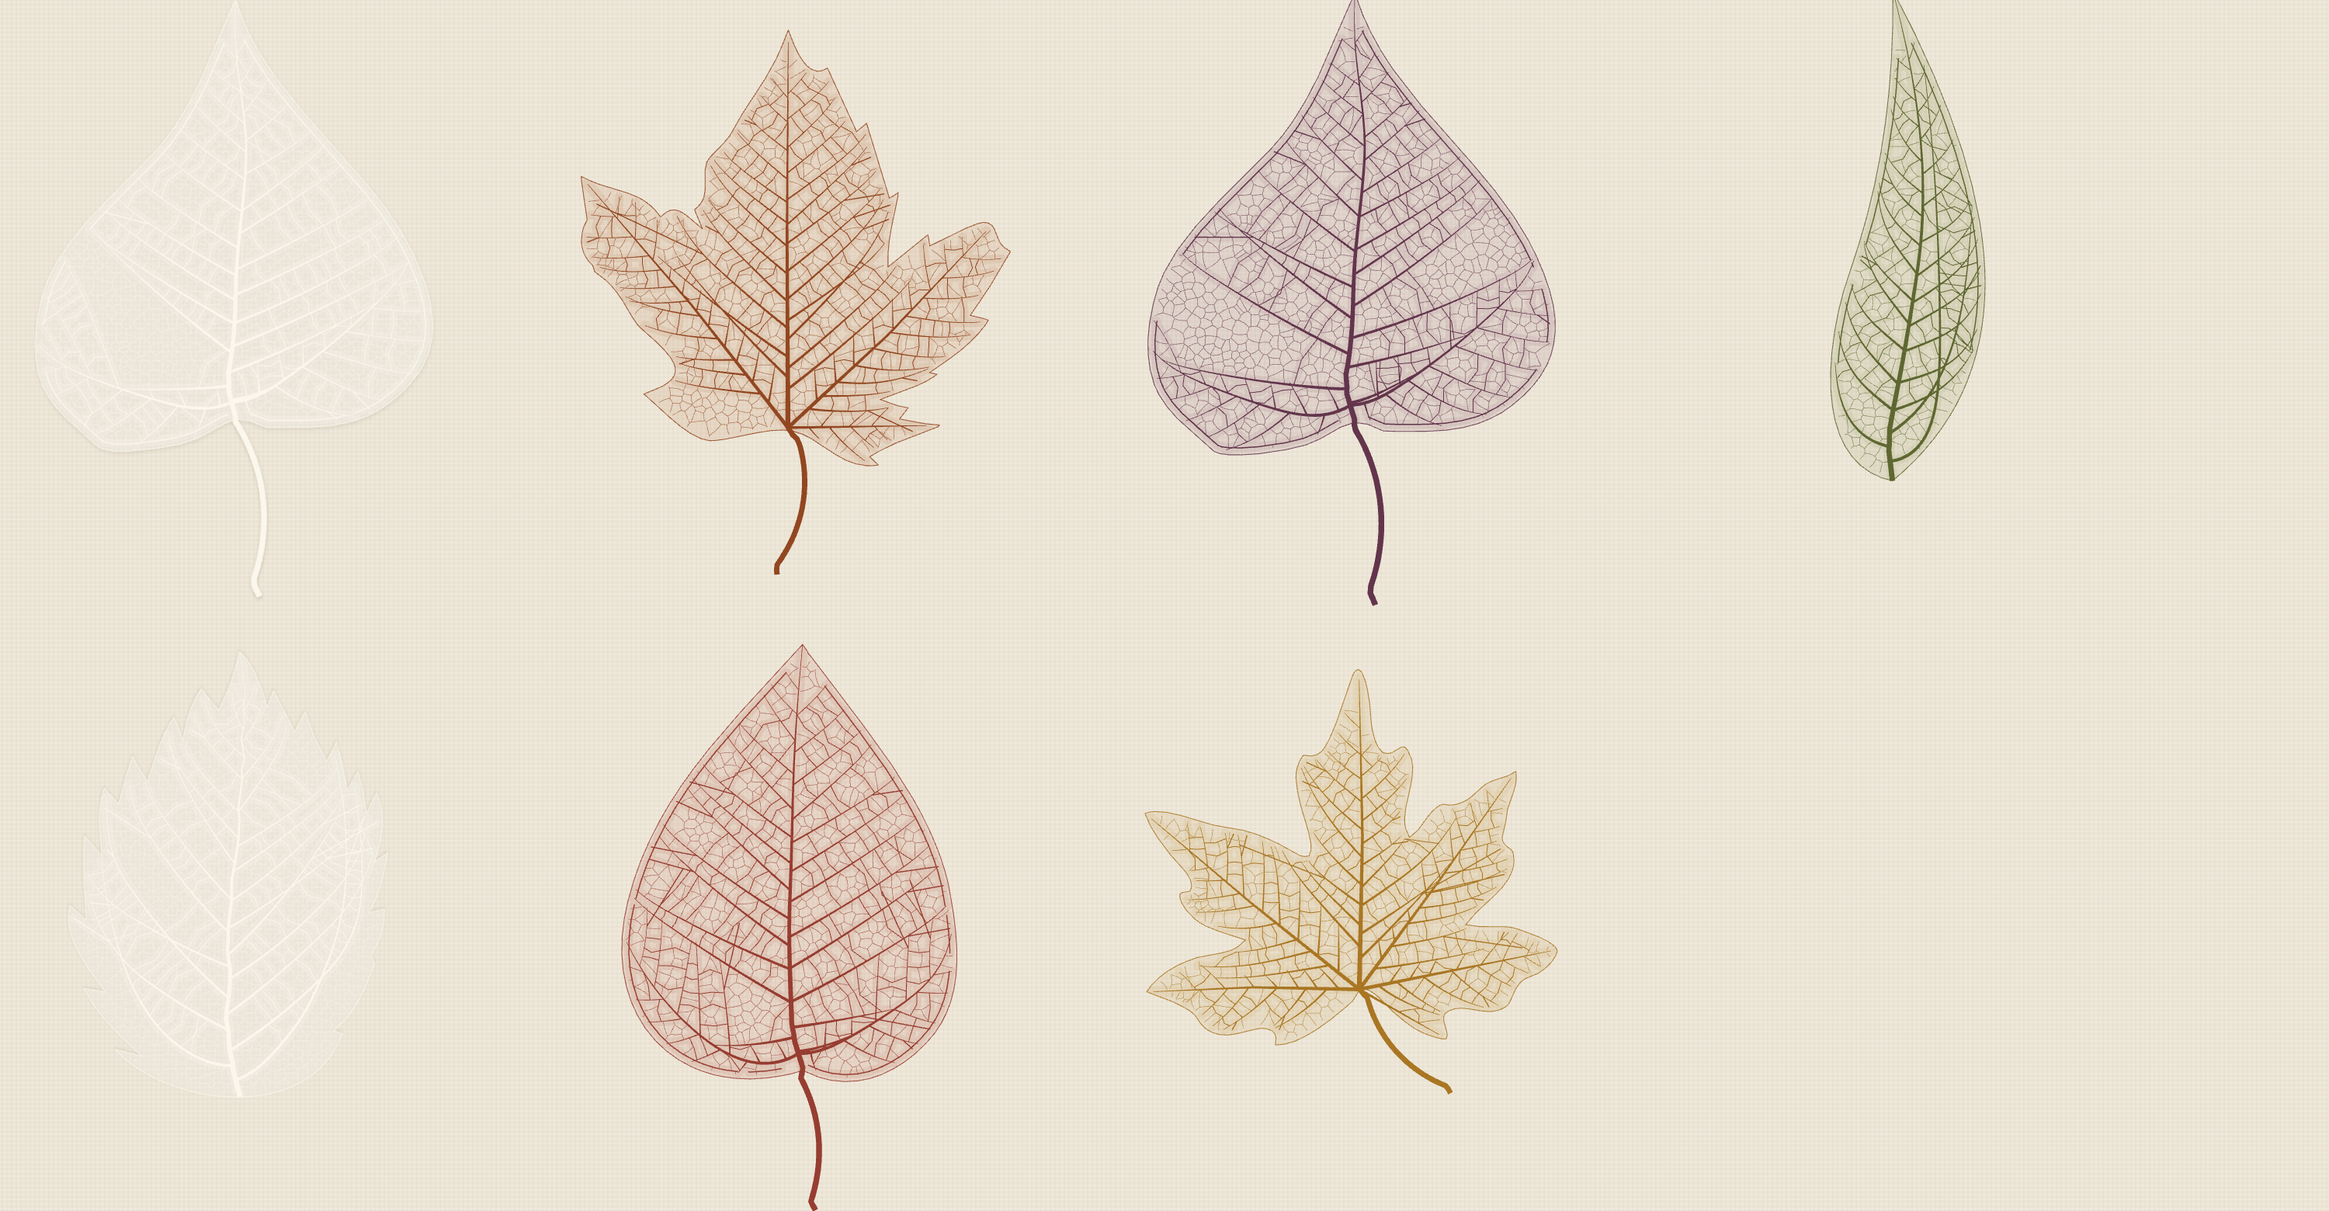
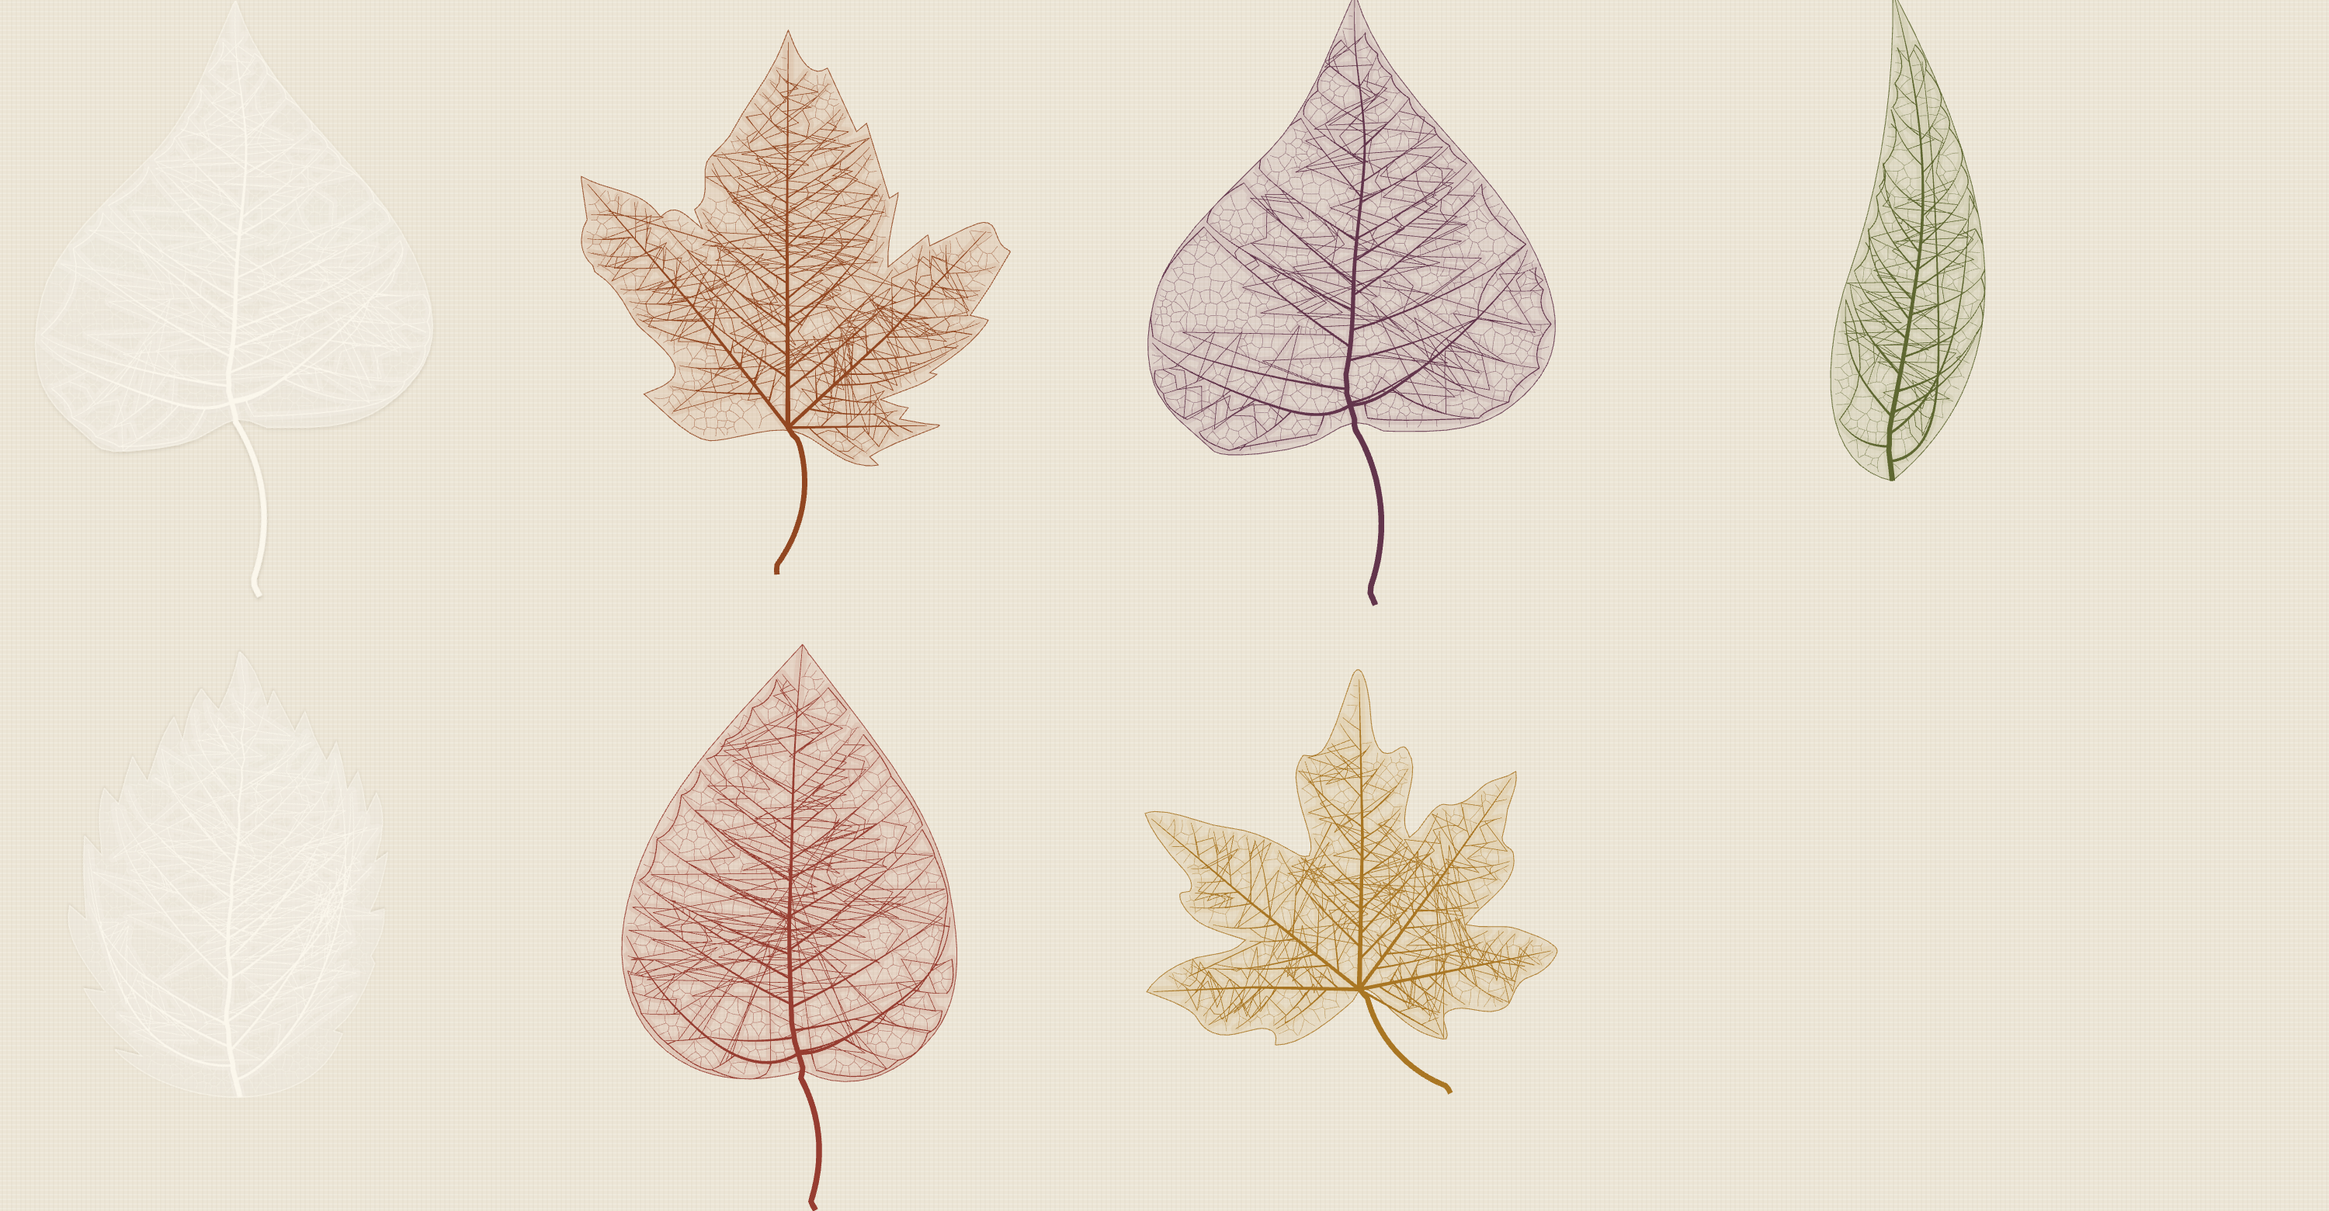
Phantom Bouquet: the believability pass
The maintainer's five reference photos named what was missing, and it
was all interior structure. Secondaries now arc toward the tip along
their whole length and loop into their neighbour as shallow arches;
ladder rungs connect same-fraction stations on neighbouring secondaries
in a deferred pass that can see every vein, so nothing crosses (the
plum heart's midrib rungs used to run straight across the basal veins'
secondaries); the basal pair carries outer-side secondaries only; and
the lace is grown with boundary seeds, so it comes out finer against
the veins and margin and elongated along the flow. Panel layer drops
to 1.08 MB. The remaining gap is the outlines themselves, which the
generator can only dress: better silhouettes are the next lever and
the maintainer's call. Not yet seen by the maintainer.

diff --git a/docs/phantom-bouquet/proto/skeleton.py b/docs/phantom-bouquet/proto/skeleton.py
@@ -22,7 +22,7 @@ import random
 import numpy as np
 from scipy.spatial import Voronoi
 from shapely.geometry import Polygon, LineString, Point, MultiPolygon, MultiLineString
-from shapely.ops import unary_union, nearest_points, substring
+from shapely.ops import unary_union, nearest_points
 
 import traced as T
 
@@ -54,16 +54,17 @@ def tapered_ws(pts, ws):
 
 
 def march(inner, P, d, t_hint, step, max_len, bend, blocked=None):
-    # A secondary runs nearly straight out from its parent and turns toward the tip only as
-    # it nears the margin. The turn is applied in proportion to how close the next step is
-    # to the edge, not at a constant rate, which bent the long ones round until they ran
-    # parallel to the midrib.
+    # A secondary arcs toward the tip along its whole length, the way a real one does;
+    # the turn steepens as it nears the margin, where it swings round to run with the
+    # edge and meet its neighbour. (A constant-rate turn ran it parallel to the midrib;
+    # an end-only turn read as a kink.)
     pts = [P]
     length = 0.0
     edge = inner.exterior
     while length < max_len:
         near = max(0.0, 1.0 - edge.distance(Point(pts[-1])) / (14 * step))
-        d = unit((d[0] + bend * (0.25 + 3.0 * near) * t_hint[0], d[1] + bend * (0.25 + 3.0 * near) * t_hint[1]))
+        bb = bend * (0.3 + 3.2 * near)
+        d = unit((d[0] + bb * t_hint[0], d[1] + bb * t_hint[1]))
         nxt = (pts[-1][0] + d[0] * step, pts[-1][1] + d[1] * step)
         if not inner.contains(Point(nxt)):
             break
@@ -94,7 +95,12 @@ class _Others:
 
 
 def areoles(region, cell, rnd):
-    """Voronoi cells grown inside one space between veins; lines clipped to it."""
+    """Voronoi cells grown inside one space between veins; lines clipped to it.
+
+    Seeded partly along the region's own boundary, so the lace comes out finer against
+    the veins and the margin and coarser in the middle of each space, as on a real leaf.
+    The spaces are slivers between veins, so their cells come out elongated along the
+    flow without any extra machinery."""
     area = region.area
     n = int(area / (cell * cell))
     if n < 2:
@@ -109,6 +115,18 @@ def areoles(region, cell, rnd):
             pts.append(p)
     if len(pts) < 2:
         return []
+    # boundary seeds: a little over a third as many again, spread along every ring
+    rings = [region.exterior] + list(region.interiors)
+    total = sum(r_.length for r_ in rings)
+    m = max(2, int(len(pts) * 0.35))
+    for _ in range(m):
+        d = rnd.uniform(0, total)
+        for r_ in rings:
+            if d <= r_.length:
+                p = r_.interpolate(d)
+                pts.append((p.x, p.y))
+                break
+            d -= r_.length
     pts = np.array(pts)
     far = [[minx - 9999, miny - 9999], [maxx + 9999, miny - 9999], [minx - 9999, maxy + 9999], [maxx + 9999, maxy + 9999]]
     vor = Voronoi(np.vstack([pts, far]))
@@ -143,10 +161,6 @@ def network(i, leaf, k, size, rnd):
     px = 1.0 / k
     grow = (size / 200.0) ** 0.5
     inner = b.buffer(-2.5 * px)
-    margin_track = b.buffer(-4.5 * px)
-    if margin_track.geom_type != 'Polygon':
-        margin_track = max(margin_track.geoms, key=lambda g: g.area)
-    track = margin_track.exterior
     toothed = i in TOOTHED
     filled = []          # (polyline, w0, w1)
     thin = []            # (polyline, width)
@@ -190,11 +204,14 @@ def network(i, leaf, k, size, rnd):
                 d = rot(t0, side * rnd.uniform(100, 112))
                 bp = [P0] + march(inner, P0, d, t0, 2 * px, LineString(mid).length * 0.7, 0.02)[1:]
                 if len(bp) > 8:
-                    primaries.append((bp, w0 * 0.62, (1, -1), 0.06))
+                    # secondaries on the outer side only: the inner side would crowd
+                    # the midrib's own lower secondaries
+                    primaries.append((bp, w0 * 0.62, 'outer', 0.06))
 
     from shapely.prepared import prep
     laid = [LineString(p) for p, _, _, _ in primaries]
     prim = [(path, w0) for path, w0, _, _ in primaries]
+    bands = []
     for path, w0, sides, start_f in primaries:
         blocked = prep(unary_union(laid))
         own = LineString(path)
@@ -220,57 +237,85 @@ def network(i, leaf, k, size, rnd):
                     ang = (96 if f < 0.1 else 70) - 30 * f
                 else:
                     ang = (88 if f < 0.08 else 64) - 26 * f
-                ang += rnd.uniform(-7, 7)
+                ang += rnd.uniform(-8, 8)
                 d = rot(t, ang * side)
-                bend = (0.012 if (palm or broad) else 0.028) * rnd.uniform(0.7, 1.3)
+                bend = (0.013 if (palm or broad) else 0.027) * rnd.uniform(0.7, 1.3)
                 pts = march(inner, P, d, t, 2 * px, L * (0.42 if palm else 0.9), bend,
                             blocked=_Others(blocked, own, P, 6 * px))
                 if len(pts) >= 5:
                     laid.append(LineString(pts))
-                    wl = (w0 + (0.35 * px - w0) * f) * 0.62
-                    filled.append((pts, wl, 0.32 * px))
+                    wl = (w0 + (0.35 * px - w0) * f) * 0.52
+                    filled.append((pts, wl, 0.3 * px))
                     sec.append((f, pts, wl))
                     # a fork near the end, toward the margin, now and then
-                    if len(pts) > 14 and rnd.random() < 0.35:
+                    if len(pts) > 14 and rnd.random() < 0.15:
                         j = int(len(pts) * rnd.uniform(0.62, 0.78))
                         q0, q1 = pts[j - 1], pts[j]
                         dd = unit((q1[0] - q0[0], q1[1] - q0[1]))
                         fork = march(inner, q1, rot(dd, side * rnd.uniform(18, 30)), dd, 2 * px, L * 0.3, 0.0)
                         if len(fork) >= 4:
-                            thin.append((fork, 0.7))
-                f += (spacing / L) * rnd.uniform(0.78, 1.25)
-            # smooth edge: each secondary loops into the next one up, along the inside of
-            # the margin
-            if not toothed:
-                for (fa, a, _), (fb, c, _) in zip(sec, sec[1:]):
-                    da = track.project(Point(a[-1]))
-                    db = track.project(Point(c[-1]))
-                    lo, hi = sorted((da, db))
-                    seg = substring(track, lo, hi)
-                    if seg.length > track.length / 2:
-                        continue
-                    if seg.length < 60 * px:
-                        thin.append((list(seg.coords), 0.75))
-            # tertiaries: rungs between neighbouring secondaries
-            for (_, a, _), (_, c, _) in zip(sec, sec[1:]):
-                A, C = LineString(a), LineString(c)
-                u = 0.12
-                while True:
-                    u += (9 * px / max(A.length, 1e-6)) * rnd.uniform(0.7, 1.45)
-                    if u > 0.9:
+                            thin.append((fork, 0.6))
+                f += (spacing / L) * rnd.uniform(0.62, 1.5)
+            bands.append((path, sec))
+        # The arches and ladders wait until every primary's secondaries exist, so a rung
+        # can see — and refuse to cross — veins laid after its own band.
+    laid_geom = unary_union(laid)
+    laid_prep = prep(laid_geom)
+    for path, sec in bands:
+        # smooth edge: each secondary loops into the next one up, arching just inside
+        # the margin (brochidodromous). The arch is a shallow quadratic — bulging
+        # away from the parent vein — sampled to a polyline.
+        if not toothed:
+            for (fa, a, _), (fb, c, _) in zip(sec, sec[1:]):
+                ae, ce = a[-1], c[-1]
+                span = math.hypot(ae[0] - ce[0], ae[1] - ce[1])
+                if span > 90 * px or span < 14 * px:
+                    continue
+                _, pm = T.along(path, (fa + fb) / 2)
+                mx, my = (ae[0] + ce[0]) / 2, (ae[1] + ce[1]) / 2
+                ox, oy = unit((mx - pm[0], my - pm[1]))
+                cr = 0.32 * span
+                ctrl = (mx + ox * cr, my + oy * cr)
+                arch = []
+                for s_ in range(7):
+                    u = s_ / 6.0
+                    arch.append(((1 - u) ** 2 * ae[0] + 2 * (1 - u) * u * ctrl[0] + u * u * ce[0],
+                                 (1 - u) ** 2 * ae[1] + 2 * (1 - u) * u * ctrl[1] + u * u * ce[1]))
+                thin.append((arch, 0.6))
+        # the ladders: rungs between neighbouring secondaries, the dominant texture
+        # of a real skeleton leaf. Stations match by arc fraction — the two veins of
+        # a band run roughly parallel, so same-fraction points face each other and
+        # the rungs come out orderly, fanning like the real ones — with a touch of
+        # slide and bow so they are not ruled with a straightedge. The outer fifth
+        # of the band is left for the lace, and a rung whose middle would cross a
+        # vein is dropped.
+        for (_, a, _), (_, c, _) in zip(sec, sec[1:]):
+            A, C = LineString(a), LineString(c)
+            n_st = max(3, int(A.length / (9.5 * px)))
+            for j in range(n_st):
+                if rnd.random() < 0.12:
+                    continue
+                f_ = 0.08 + 0.72 * (j + 0.5) / n_st
+                p = A.interpolate(min(1.0, f_ + rnd.uniform(-0.015, 0.015)), normalized=True)
+                q = C.interpolate(min(1.0, f_ + rnd.uniform(-0.015, 0.015)), normalized=True)
+                gap = p.distance(q)
+                if gap > 34 * px or gap < 2.5 * px:
+                    continue
+                mx, my = (p.x + q.x) / 2, (p.y + q.y) / 2
+                nx, ny = -(q.y - p.y), (q.x - p.x)
+                wv = rnd.uniform(-0.12, 0.12) * gap
+                cx, cy = mx + nx * wv, my + ny * wv
+                crossed = False
+                for tt in (0.25, 0.5, 0.75):
+                    u = tt
+                    vx = (1 - u) ** 2 * p.x + 2 * (1 - u) * u * cx + u * u * q.x
+                    vy = (1 - u) ** 2 * p.y + 2 * (1 - u) * u * cy + u * u * q.y
+                    if laid_prep.covers(Point(vx, vy)):
+                        crossed = True
                         break
-                    if rnd.random() < 0.25:
-                        continue
-                    p = A.interpolate(u, normalized=True)
-                    q = nearest_points(p, C)[1]
-                    if p.distance(q) > 34 * px or p.distance(q) < 3 * px:
-                        continue
-                    mx, my = (p.x + q.x) / 2, (p.y + q.y) / 2
-                    nx, ny = -(q.y - p.y), (q.x - p.x)
-                    w = rnd.uniform(-0.22, 0.22)
-                    rung = [(p.x, p.y), (mx + nx * w, my + ny * w), (q.x, q.y)]
-                    if b.contains(LineString(rung)):
-                        thin.append((rung, 0.5))
+                if crossed or not b.contains(LineString([(p.x, p.y), (cx, cy), (q.x, q.y)])):
+                    continue
+                thin.append(([(p.x, p.y), (cx, cy), (q.x, q.y)], 0.4))
 
     # the lace: inside every space the veins enclose
     vein_geom = unary_union(
@@ -282,7 +327,7 @@ def network(i, leaf, k, size, rnd):
     lace = []
     for r in regions:
         if r.geom_type == 'Polygon' and r.area > (4 * px) ** 2:
-            lace += areoles(r, 6.5 * px, rnd)
+            lace += areoles(r, 7.5 * px, rnd)
     # THE STEM joins the spine as one shape, ported from vrender.py, where it fixed the
     # "stem is disconnected from the spine" the maintainer saw: the stem's centreline is
     # prepended to the widest primary (the midrib, or a maple's main lobe vein) and the
@@ -332,7 +377,7 @@ def render(leaf, x, y, size, tip_deg, ink, tint, tint_alpha, seed, idx, flip=Fal
     o.append('<path d="%s" fill="%s" fill-opacity="%g" fill-rule="evenodd"/>' % (
         ''.join('M%sZ' % pstr(g.exterior.coords) + ''.join('M%sZ' % pstr(h.coords) for h in g.interiors) for g in hp if g.geom_type == 'Polygon'),
         tint, tint_alpha * 0.8))
-    o.append('<path d="%s" fill="none" stroke="%s" stroke-width="0.35" stroke-opacity="0.7" vector-effect="non-scaling-stroke"/>' % (''.join(lace), ink))
+    o.append('<path d="%s" fill="none" stroke="%s" stroke-width="0.35" stroke-opacity="0.55" vector-effect="non-scaling-stroke"/>' % (''.join(lace), ink))
     for pts, w in thin:
         o.append('<path d="M%s" fill="none" stroke="%s" stroke-width="%s" stroke-linecap="round" vector-effect="non-scaling-stroke"/>' % (pstr(pts), ink, w))
     for pts, w0, w1 in filled:

diff --git a/docs/phantom-bouquet/HANDOFF.md b/docs/phantom-bouquet/HANDOFF.md
@@ -314,3 +314,61 @@ python3 panel2.py && node ~/.zcode/shot-tools/shot.js file://$PWD/mock-lite.html
 ```
 
 (The original container instructions are in section 3; only `shot.js` differs.)
+
+## 7. Seventh turn (2026-10-05): the believability pass
+
+The maintainer answered the sixth turn's sheet with five photographs of real skeleton
+leaves: still not convinced, "a large believability gap". Studying the photos against
+the render named what was missing, and all of it was interior structure — the outlines
+were not the problem this time:
+
+1. **Ladder rungs are the dominant texture.** Between neighbouring secondaries a real
+   skeleton carries a dense, orderly ladder of slightly oblique rungs, a few px apart
+   at panel scale. The old render had sparse, wandering rungs, so the inter-vein bands
+   read as empty.
+2. **Secondaries arc continuously** toward the tip and loop into their neighbour just
+   inside the margin — a visible series of arches. The old ones ran straight and bent
+   only at the end: a kink, not an arc.
+3. **The lace is organised**: cells elongated along the vein direction, finer against
+   the margins and veins, coarser mid-band. Isotropic same-size Voronoi everywhere was
+   the "burnt paper" look.
+4. **Four visible weights**: midrib, secondary, rung, hairline lace. The old render
+   collapsed the middle two.
+
+What changed in `skeleton.py`:
+
+- `march()` arcs a secondary toward the tip along its whole length, turning harder as
+  it nears the margin (a factor of about ten between mid-run and the edge).
+- Secondaries come thinner (0.52 of the parent's width there), spacing jitter is wider
+  (0.62–1.5), forks rarer.
+- **Arches**: each consecutive pair of secondary ends is joined by a shallow quadratic
+  bulging away from the parent vein — the brochidodromous loop, no longer dependent on
+  the old margin-track walk (which the wider spacing jitter was breaking).
+- **Ladders**: rungs connect same-fraction stations on neighbouring secondaries (the
+  band's veins run roughly parallel, so same-fraction points face each other and the
+  fan comes out orderly), with a touch of slide and bow. They are laid in a deferred
+  pass, after **every** primary's secondaries exist, and a rung whose interior would
+  land on any vein is dropped — this fixed the plum heart, whose midrib-band rungs
+  used to run straight across the basal veins' secondaries laid after them.
+- The hearts' basal veins now carry secondaries on their **outer side only** (the
+  `sides == 'outer'` machinery existed but had never been used); inner ones crowded
+  the midrib's lower secondaries into a tangle.
+- **Lace**: `areoles()` adds boundary seeds along the region's rings (a third as many
+  again), so cells finish finer against veins and margin; the sliver shape of the
+  spaces elongates the cells along the flow for free. Cells a little larger (7.5 px)
+  and the stroke lighter (0.55 opacity): airy, not grey.
+
+**Result** (`stem-join-latest.png` at 2×, `curated-sheet-latest.png` at 2×,
+`panel-latest.png`): the interiors now sit in the references' family — dominant midrib,
+arcing secondaries with margin arches, orderly ladders, gradient lace. The willow, the
+serrated oval and the madder heart are the convincing ones; the panel reads calm at
+1×, and its layer dropped from 1.24 MB to 1.08 MB with the lighter lace.
+
+**Where the remaining gap is:** the outlines. The clip-art silhouettes are symmetric
+and slightly paunchy (the hearts), or lumpy (the maples); every photo the maintainer
+supplied has an asymmetric, gracefully curved outline. `skeleton.py` can only dress
+the outline it is given. Next lever, maintainer's call: better source silhouettes —
+the source of `variety.svg` (still unrecorded, see section 2) may have better shapes,
+or the outlines could be redrawn by hand against the photo references.
+
+**Not yet seen by the maintainer.**
